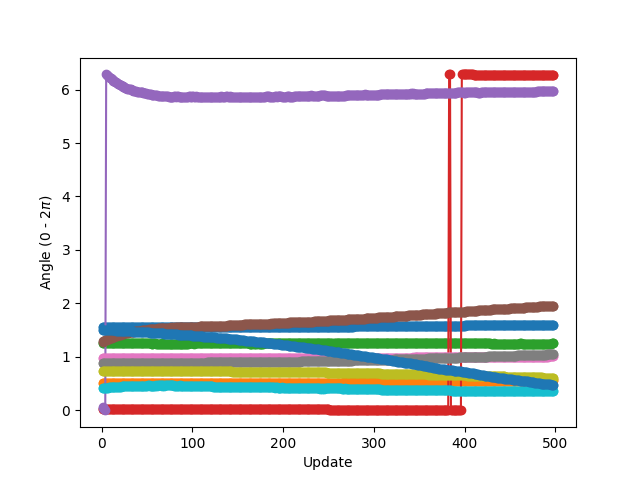
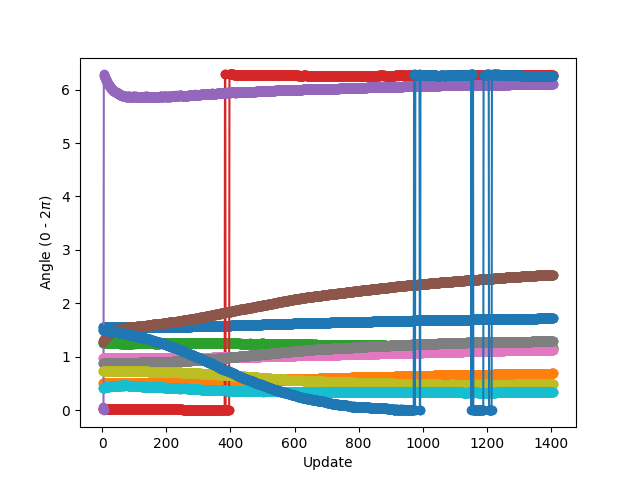
plots for lr=0.1

diff --git a/QuantumEdgeNetwork.py b/QuantumEdgeNetwork.py
@@ -201,7 +201,7 @@ if __name__ == '__main__':
 	valid_accuracy[0] = test_validation(valid_data,theta_learn,n_valid)
 	print('Training is starting!')
 	for epoch in range(n_epoch): 
-		for n_file in range(n_files):
+		for n_file in range(n_train):
 			t0 = time.time()
 
 			B, y = preprocess(train_data[n_file])
